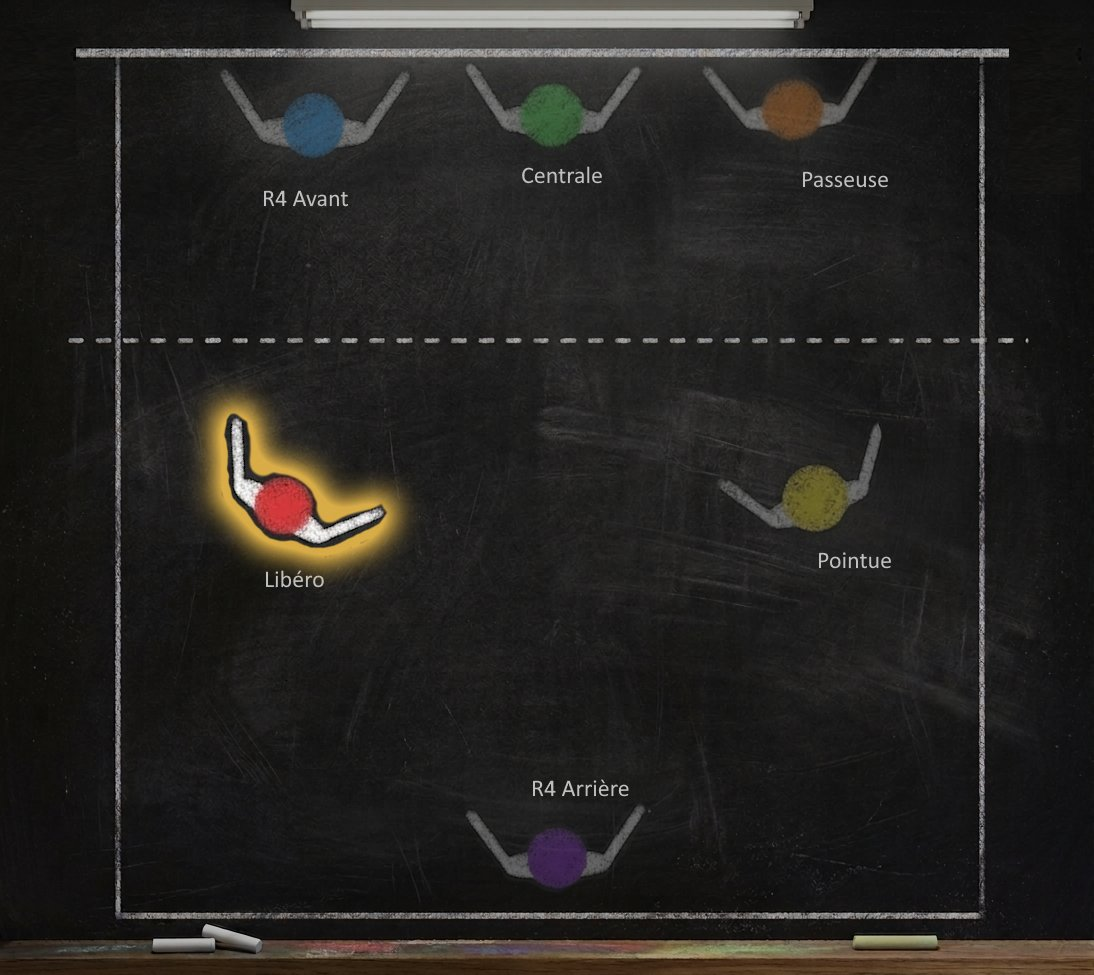
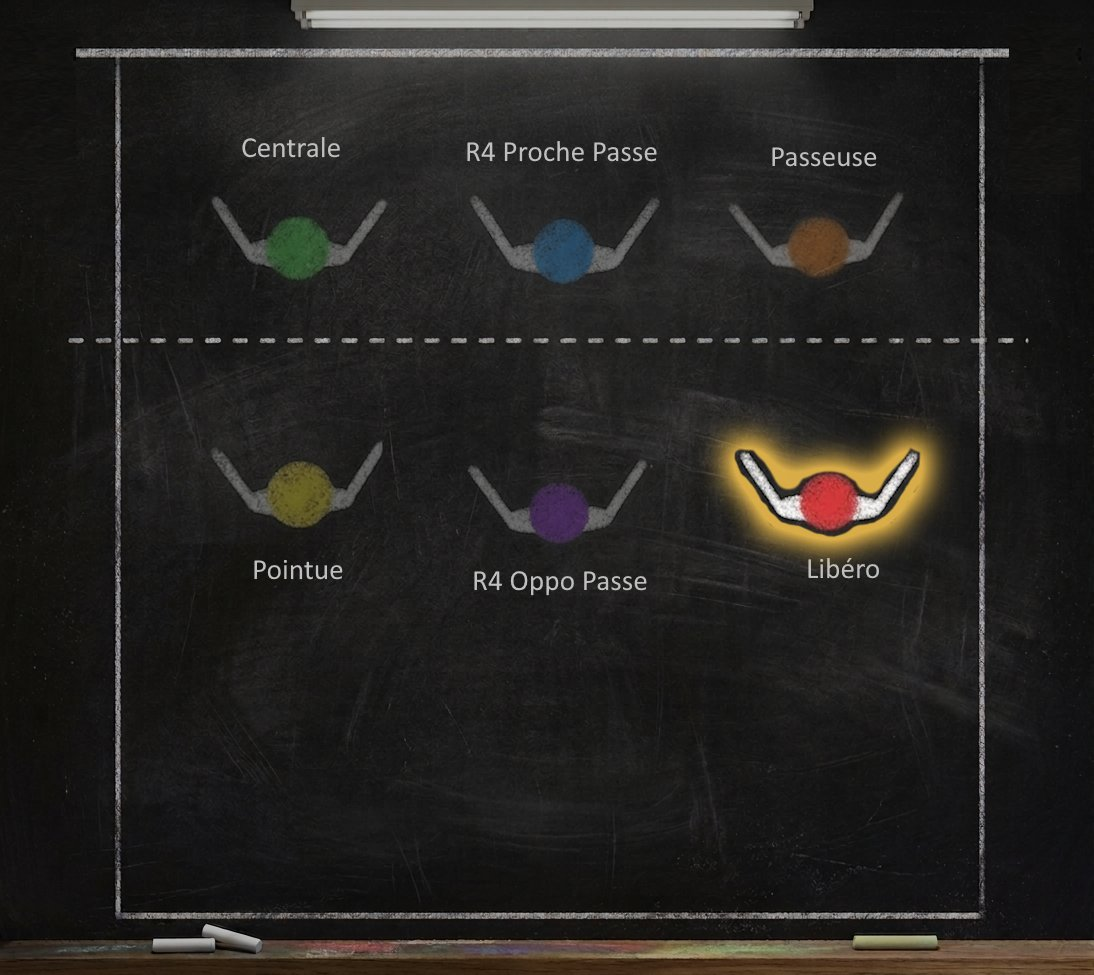
Add files via upload

diff --git a/index.html b/index.html
@@ -108,7 +108,7 @@
   <!-- 1. LÉGENDE + MON POSTE -->
   <div class="section-title">Légende</div>
   <div class="schema" style="margin-bottom:12px;">
-    <img id="legendImg" src="images/legende.jpg" alt="Légende : R4 Proche Passe (bleu), Centrale (vert), Passeuse (orange), Libéro (rouge), Pointue (jaune), R4 Oppo Pass (violet)">
+    <img id="legendImg" src="images/legende.jpg" alt="Légende : R4 Proche Passe (bleu), Centrale (vert), Passeuse (orange), Libéro (rouge), Pointue (jaune), R4 Oppo Passe (violet)">
   </div>
   <div class="controls" style="margin-bottom:22px;">
     <div class="label">Mon poste</div>
@@ -169,7 +169,7 @@
     { id: 'pointue',    label: 'Pointue',     color: '#f2d22e' },
     { id: 'centrale',   label: 'Centrale',    color: '#3cc24a' },
     { id: 'r4-proche-passe', label: 'R4 Proche Passe', color: '#2f8fe0' },
-    { id: 'r4-oppo-pass',    label: 'R4 Oppo Pass',    color: '#9b45d6' },
+    { id: 'r4-oppo-pass',    label: 'R4 Oppo Passe',   color: '#9b45d6' },
     { id: 'libero',     label: 'Libéro',      color: '#e53935' },
   ];
   // Poste : lien direct (?poste=centrale), sinon dernier choix sur ce téléphone
@@ -177,7 +177,7 @@
   if (!poste) { try { poste = localStorage.getItem('vcc-poste') || ''; } catch (e) {} }
   if (!POSTES.some(p => p.id === poste)) poste = '';
 
-  const VERSION = '20261008'; // à changer quand les images changent (force la mise à jour sur les téléphones)
+  const VERSION = '20261009'; // à changer quand les images changent (force la mise à jour sur les téléphones)
   const src = base => (poste ? base.replace('.jpg', '--' + poste + '.jpg') : base) + '?v=' + VERSION;
 
   function renderPostes() {
